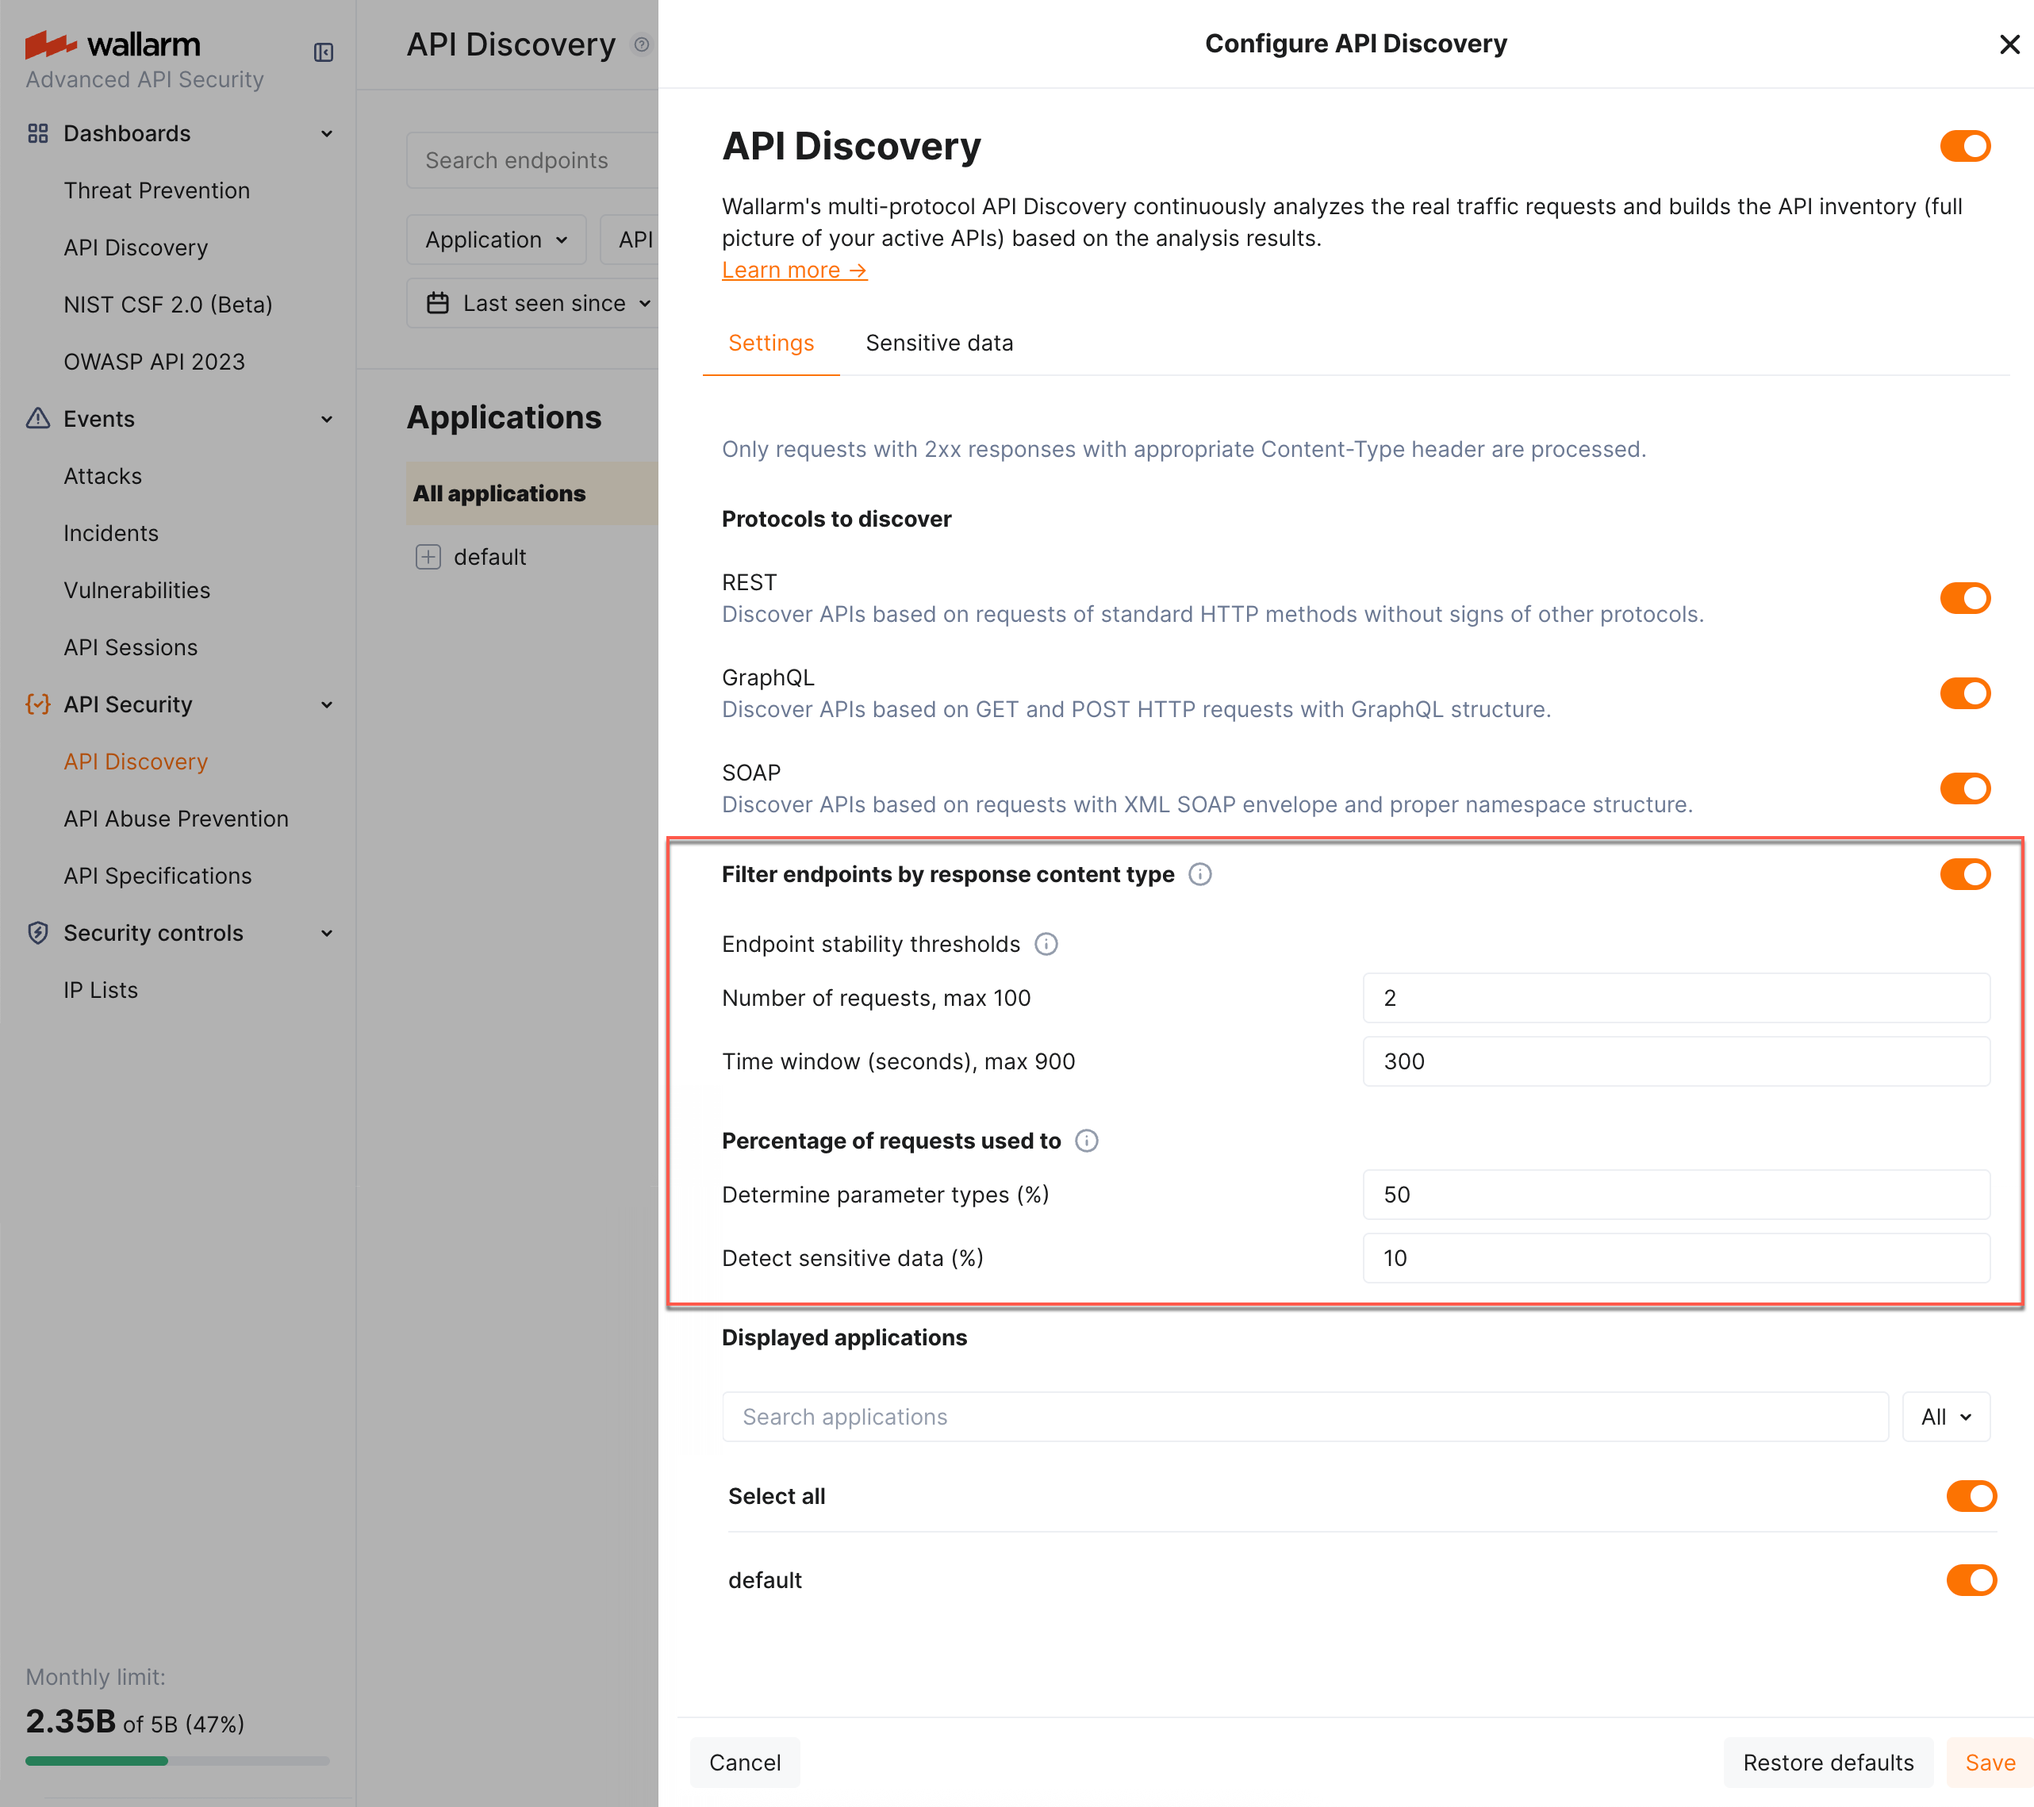
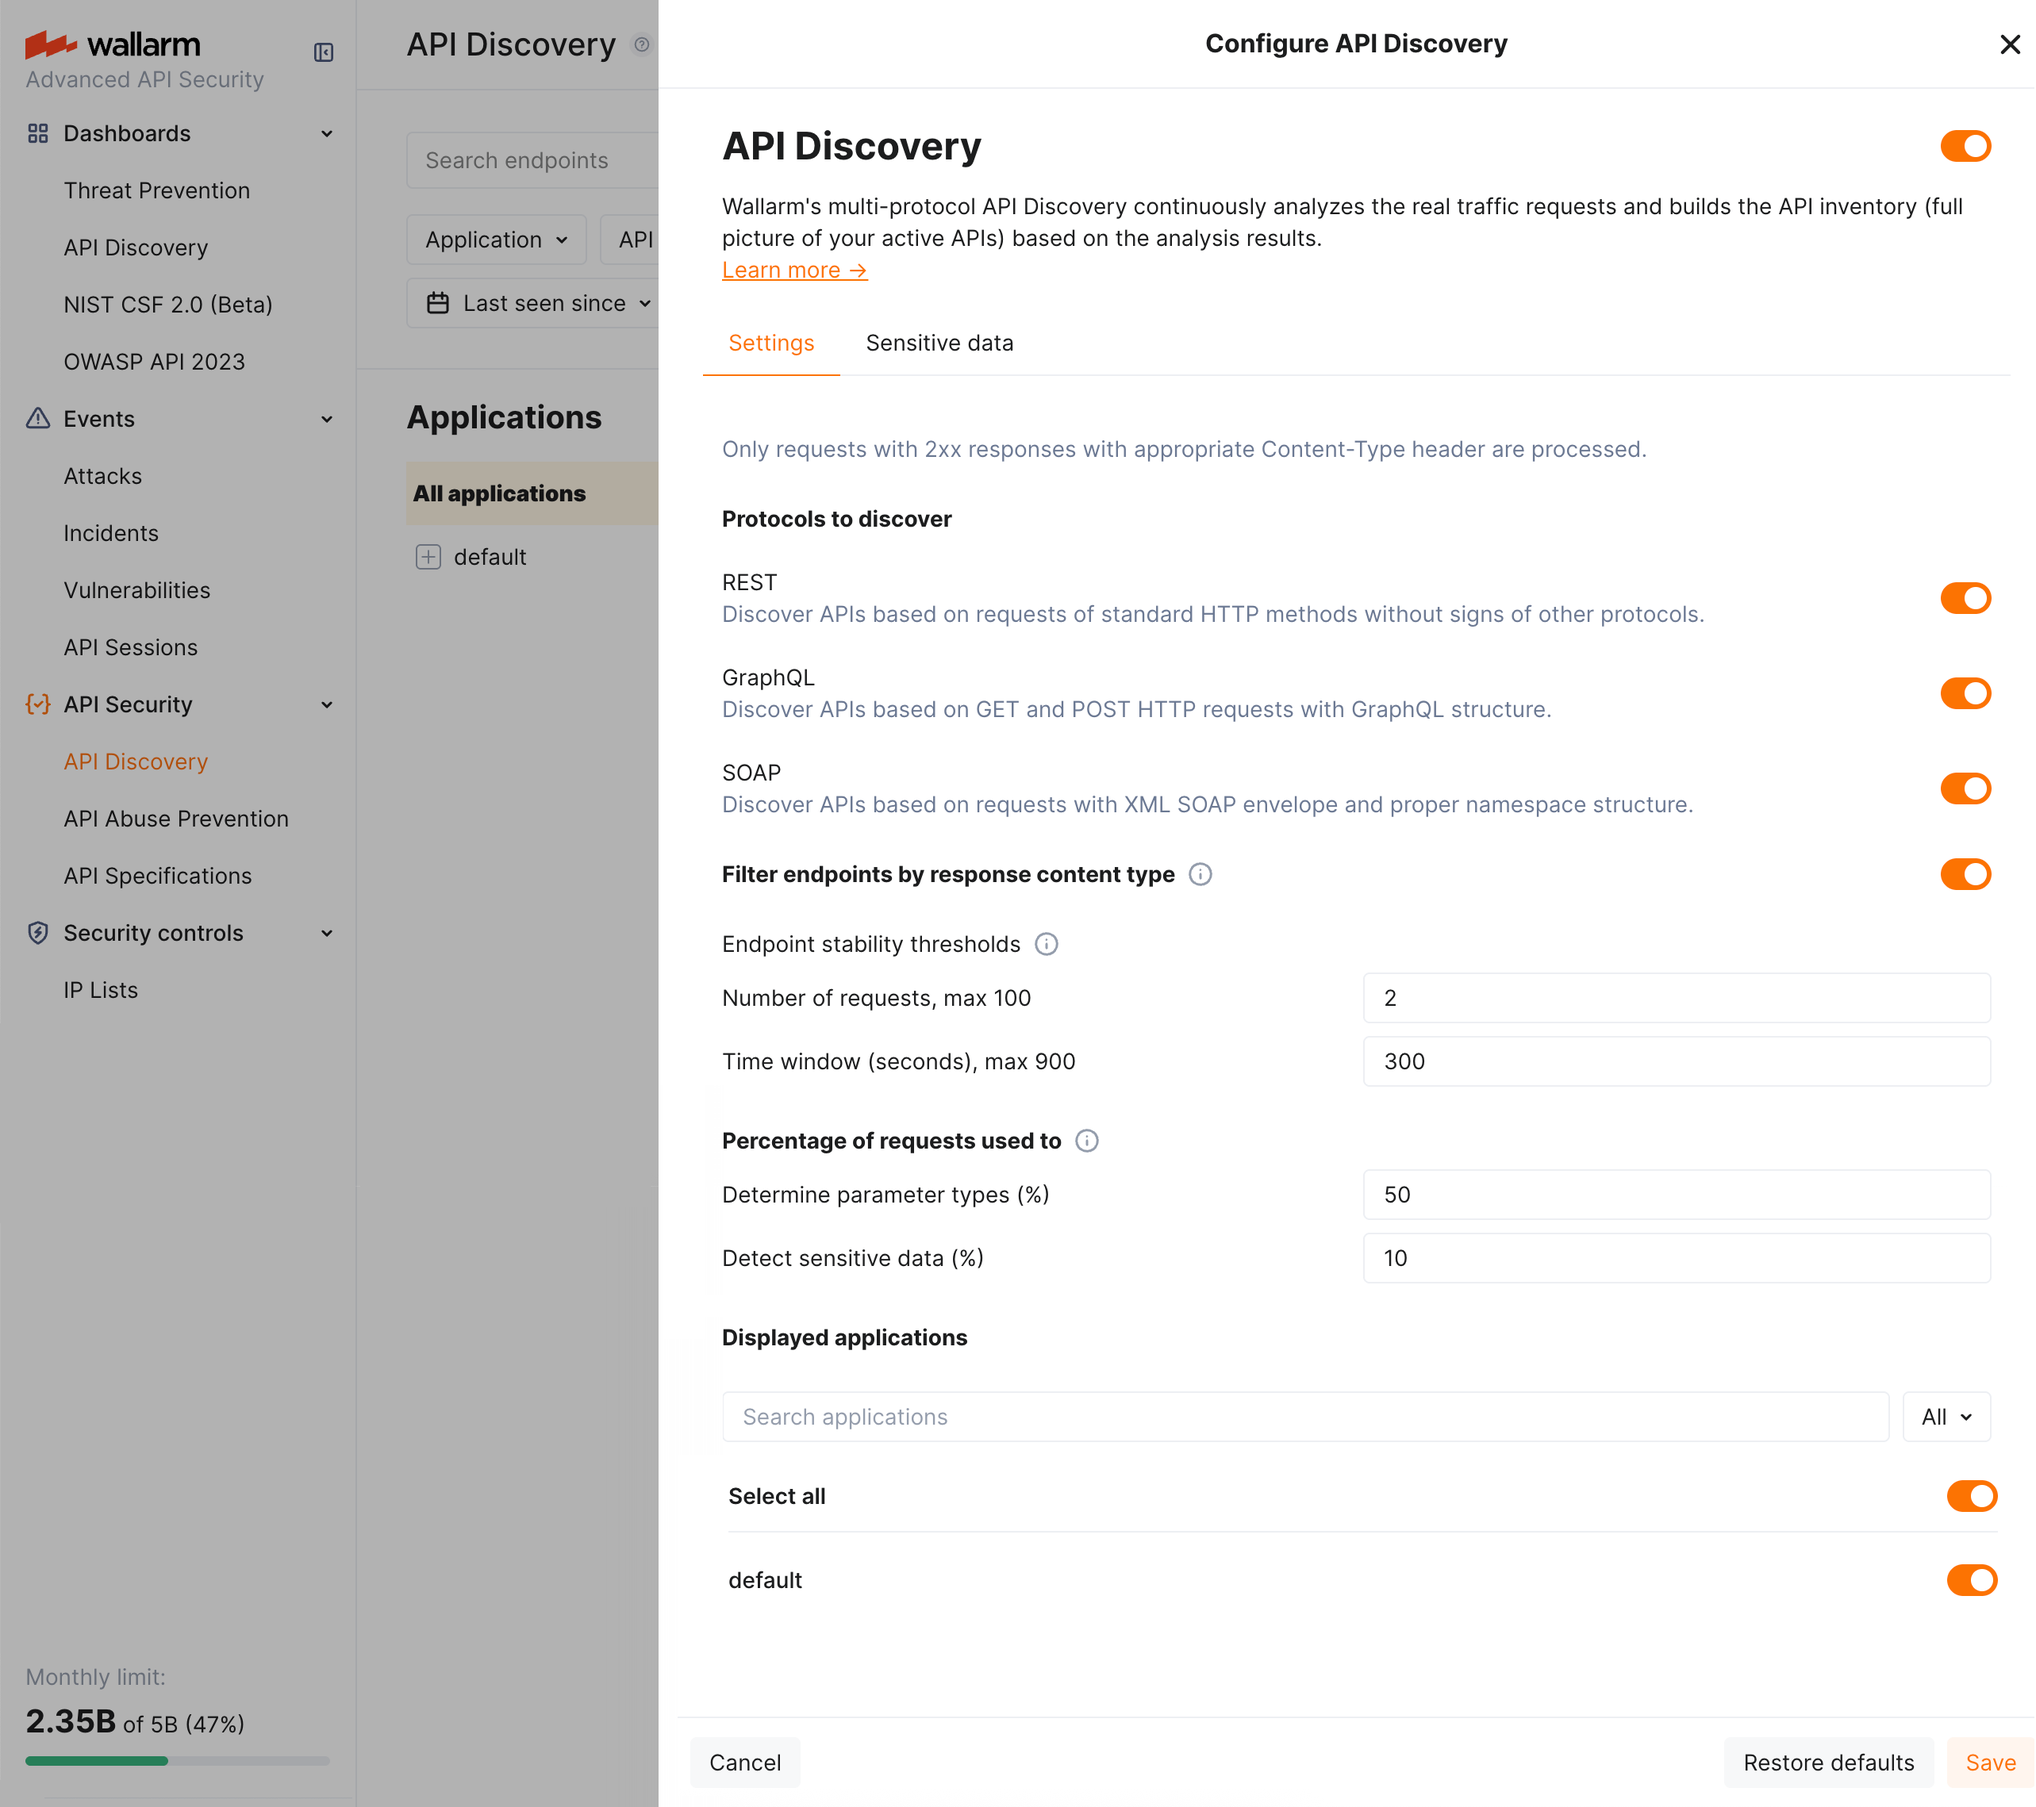
DOCS-3065 (DOCS-3496) New APID settings update

diff --git a/docs/latest/api-discovery/setup.md b/docs/latest/api-discovery/setup.md
@@ -12,32 +12,34 @@ This article describes how to enable <!--and configure -->Wallarm's [API Discove
 
 API Discovery is included in all [forms](../installation/supported-deployment-options.md) of the Wallarm node installation and is enabled by default, analyzing all traffic going through Wallarm nodes.
 
-
 ## Configure
 
-By clicking the **Configure** button in the **API Discovery** section, you proceed to the API discovery fine-tuning options, such customizing the sensitive data detection. Also, in the read-only mode, you can get familiar with general API Discovery settings defined by the Wallarm support group.
+By clicking the **Configure** button in the **API Discovery** section, you proceed to the API discovery fine-tuning options, including selection of protocols to be handled, general settings for how API Discovery processes traffic, displayed applications, and customizing the sensitive data detection.
 
-### Viewing general API Discovery settings
+### General API Discovery settings
 
-You can get familiar with general API Discovery settings defined by the Wallarm support group. To access them, in Wallarm Console, go to **API Discovery** → **Configure** → **Settings**.
+You can get define general API Discovery settings in Wallarm Console  → **API Discovery** → **Configure** → **Settings**.
 
-![API Discovery - general settings - read-only](../images/about-wallarm-waf/api-discovery-2.0/api-discovery-configure-settings-read-only.png)
+!!! info "Parameter availability"
+    Some of the parameters may be unavailable if they are managed by a **global administrator** of [multi-tenant](../installation/multi-tenant/overview.md) Wallarm installation.
+
+![API Discovery - general settings](../images/about-wallarm-waf/api-discovery-2.0/api-discovery-configure-settings-read-only.png)
 
 They are:
 
+* Protocols to discover: note that if you already have discovered data for some of the protocols and then deselect this protocol in settings, its data will remain and will still by displayed, but the new endpoints for the corresponding protocol will stop appearing, those already found will stop being updated.
 * Parameters defining how API Discovery [detects noise](overview.md#noise-detection) to show only relevant APIs. This is important as API Discovery bases its findings on the real traffic:
 
     * **Filter endpoints by response content type** turns on/off validation of traffic by the `Content-type` header of response. The necessity of this validation in noise reduction depends on the peculiarities of your traffic.
-    * Endpoint stability thresholds: **number of requests** within **time window**
+
+    * Endpoint stability thresholds: at least specific **number of requests** should be registered for the endpoint for it to be displayed by API Discovery AND and at least one of them must be outside the **timeframe**.
+
+        This settings aim to avoid showing API entries, that had no traffic or had a traffic for a short timeframe only - they are considered unstable. Even if the specific endpoint was requested huge amount of times, but just within a short timeframe, there’s no need to consider this one-time spike as stable API endpoint.
+
+        ![API Discovery - general settings - endpoint stability](../images/about-wallarm-waf/api-discovery-2.0/api-discovery-endpoint-stability.png)
 
 * Percentage of requests used to: **determine parameter types** (50% by default) and **detect sensitive data** (10% by default). Non-100% values are used to lower CPU usage. Increased numbers are good for environments with less requests.
-
-### Editable general API Discovery settings
-
-In Wallarm Console → **API Discovery** → **Configure** → **Settings**, you can set some of general API Discovery settings yourself:
-
-* Select protocols to discover: note that if you already have discovered data for some of the protocols and then deselect this protocol in settings, its data will remain and will still by displayed, but the new endpoints for the corresponding protocol will stop appearing, those already found will stop being updated.
-* Select applications to be displayed: only data for the selected applications will be displayed by API Discovery. Note that this is about displaying: data is discovered for all applications, you just decide whether to show it.
+* Applications to be displayed: only data for the selected applications will be displayed by API Discovery. Note that this is about displaying: data is discovered for all applications, you just decide whether to show it.
 
 ### Customizing sensitive data detection
 
